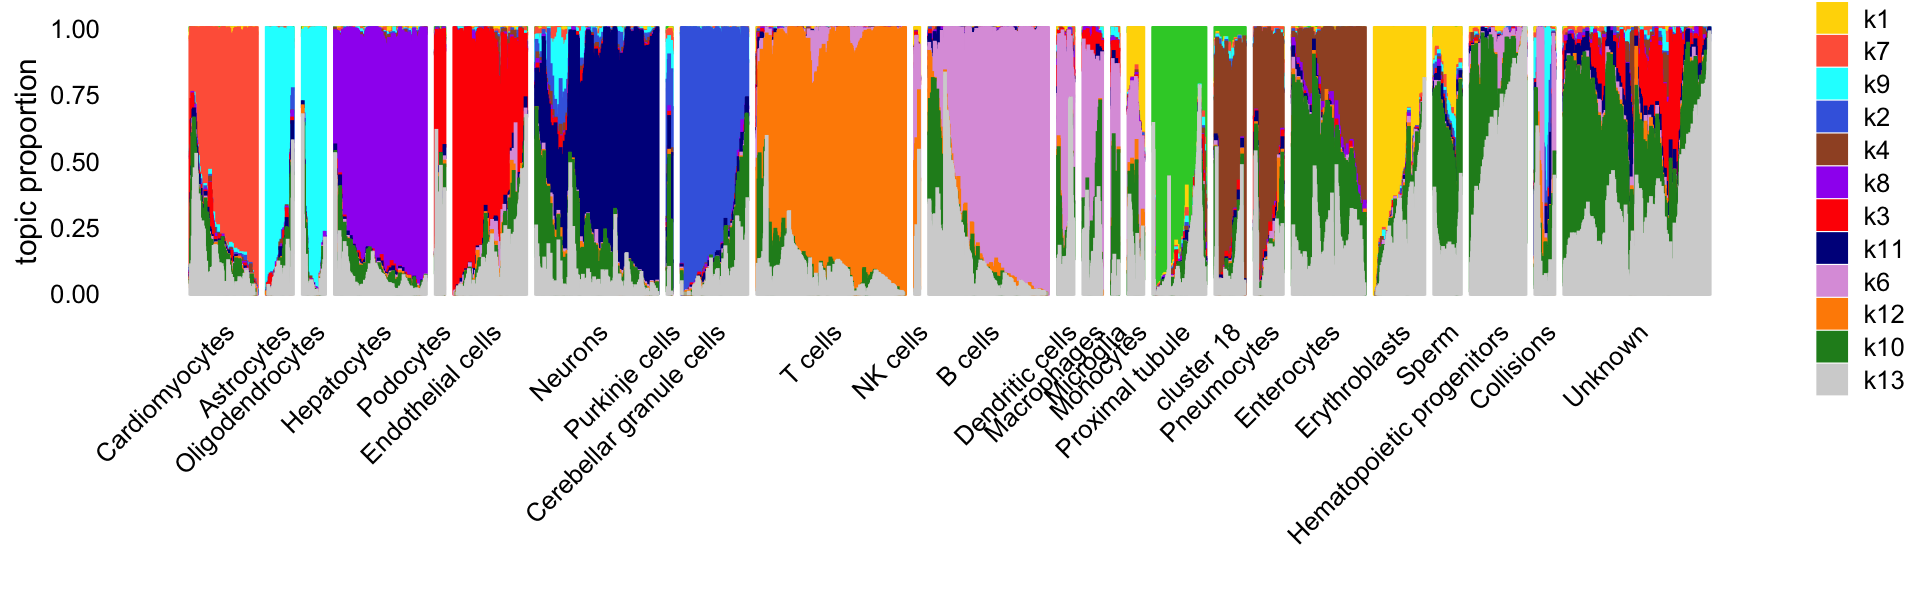
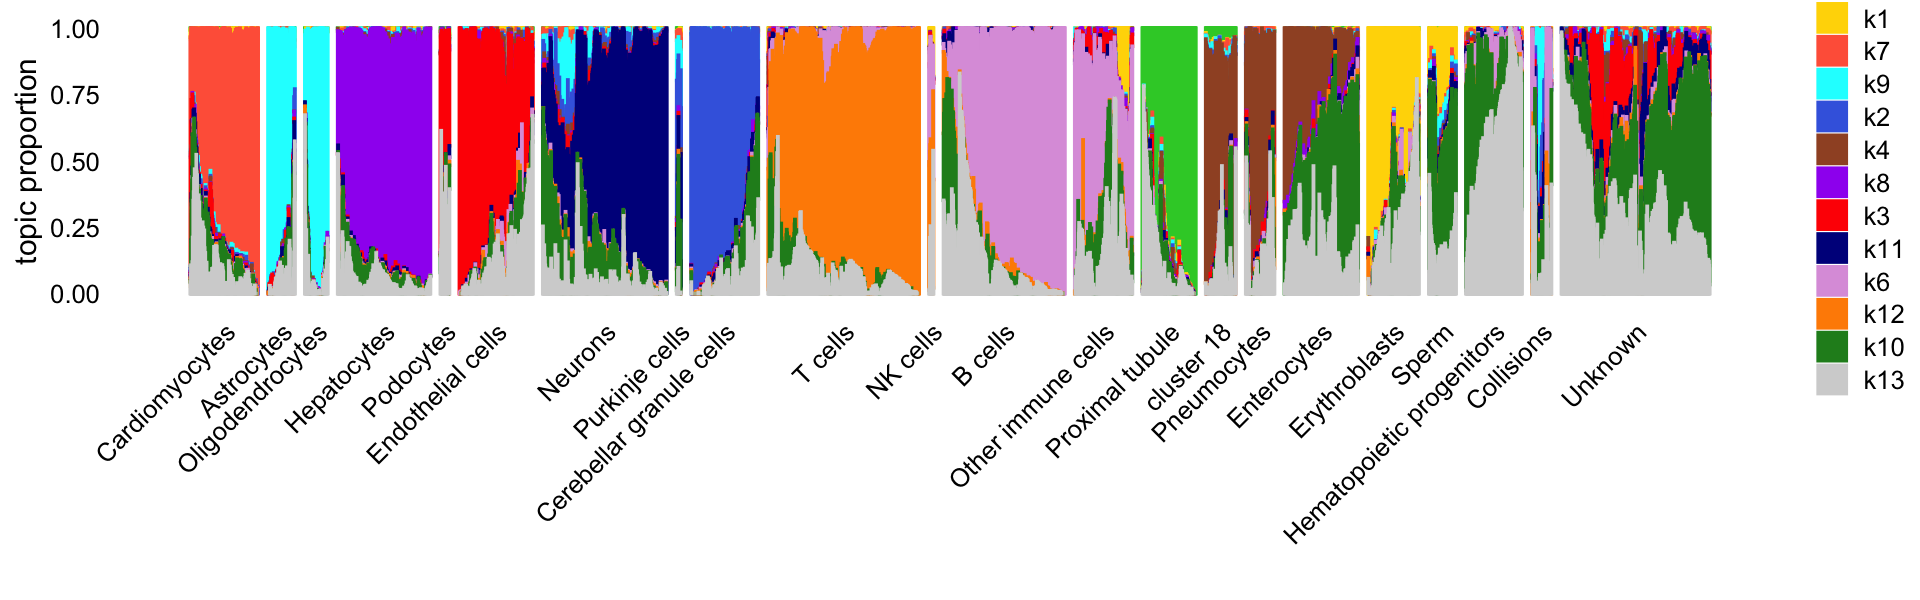
Revised the second structure plot.

diff --git a/docs/cusanovich2018_k13.html b/docs/cusanovich2018_k13.html
@@ -376,7 +376,7 @@ class="glyphicon glyphicon-ok text-success" aria-hidden="true"></span>
 <div class="tab-content">
 <div id="summary" class="tab-pane fade in active">
 <p>
-<strong>Last updated:</strong> 2022-08-01
+<strong>Last updated:</strong> 2022-08-02
 </p>
 <p>
 <strong>Checks:</strong> <span
@@ -507,15 +507,15 @@ project makes it easier to run your code on other machines.</p>
 <div class="panel panel-default">
 <div class="panel-heading">
 <p class="panel-title">
-<a data-toggle="collapse" data-parent="#workflowr-checks" href="#strongRepositoryversionstrongahrefhttpsgithubcomstephenslabscATACseqtopicstree9e501cbe5be854f22119cb57b9d09ba390e0a94etargetblank9e501cba">
+<a data-toggle="collapse" data-parent="#workflowr-checks" href="#strongRepositoryversionstrongahrefhttpsgithubcomstephenslabscATACseqtopicstree0f830ba9e3d79c20e287327f1f0cf1a10297eec4targetblank0f830baa">
 <span class="glyphicon glyphicon-ok text-success"
 aria-hidden="true"></span> <strong>Repository version:</strong>
-<a href="https://github.com/stephenslab/scATACseq-topics/tree/9e501cbe5be854f22119cb57b9d09ba390e0a94e" target="_blank">9e501cb</a>
+<a href="https://github.com/stephenslab/scATACseq-topics/tree/0f830ba9e3d79c20e287327f1f0cf1a10297eec4" target="_blank">0f830ba</a>
 </a>
 </p>
 </div>
 <div
[2 lines of base64/hex data omitted]
 class="panel-collapse collapse">
 <div class="panel-body">
 <p>
@@ -525,7 +525,7 @@ reproducibility.
 </p>
 <p>
 The results in this page were generated with repository version
-<a href="https://github.com/stephenslab/scATACseq-topics/tree/9e501cbe5be854f22119cb57b9d09ba390e0a94e" target="_blank">9e501cb</a>.
+<a href="https://github.com/stephenslab/scATACseq-topics/tree/0f830ba9e3d79c20e287327f1f0cf1a10297eec4" target="_blank">0f830ba</a>.
 See the <em>Past versions</em> tab to see a history of the changes made
 to the R Markdown and HTML files.
 </p>
@@ -554,9 +554,6 @@ Untracked files:
     Untracked:  output/Buenrostro_2018/binarized/filtered_peaks/Buenrostro_2018_binarized_filtered.RData
     Untracked:  plots/
     Untracked:  scripts/fit-buenrostro-2018-k=8.rds
-
-Unstaged changes:
-    Modified:   analysis/temp.R
 
 </code></pre>
 <p>
@@ -602,6 +599,41 @@ Message
 </tr>
 </thead>
 <tbody>
+<tr>
+<td>
+Rmd
+</td>
+<td>
+<a href="https://github.com/stephenslab/scATACseq-topics/blob/0f830ba9e3d79c20e287327f1f0cf1a10297eec4/analysis/cusanovich2018_k13.Rmd" target="_blank">0f830ba</a>
+</td>
+<td>
+Peter Carbonetto
+</td>
+<td>
+2022-08-02
+</td>
+<td>
+workflowr::wflow_publish("analysis/cusanovich2018_k13.Rmd", verbose =
+TRUE)
+</td>
+</tr>
+<tr>
+<td>
+html
+</td>
+<td>
+<a href="https://rawcdn.githack.com/stephenslab/scATACseq-topics/9eff66becb3f3a3eb6694ad26b8309d48ae7f6b9/docs/cusanovich2018_k13.html" target="_blank">9eff66b</a>
+</td>
+<td>
+Peter Carbonetto
+</td>
+<td>
+2022-08-01
+</td>
+<td>
+Added a second structure plot to the cusanovich2018_k13 analysis.
+</td>
+</tr>
 <tr>
 <td>
 Rmd
@@ -888,10 +920,7 @@ intenstine) share topics.</p>
     &quot;T cells&quot;,
     &quot;NK cells&quot;,
     &quot;B cells&quot;,
-    &quot;Dendritic cells&quot;,
-    &quot;Macrophages&quot;,
-    &quot;Microglia&quot;,
-    &quot;Monocytes&quot;,
+    &quot;Other immune cells&quot;,
     &quot;Proximal tubule&quot;,
     &quot;cluster 18&quot;,
     &quot;Pneumocytes&quot;,
@@ -921,6 +950,10 @@ x[x == &quot;Loop of henle&quot;] &lt;- &quot;cluster 18&quot;
 x[x == &quot;Distal convoluted tubule&quot;] &lt;- &quot;cluster 18&quot;
 x[x == &quot;Collecting duct&quot;] &lt;- &quot;cluster 18&quot;
 x[x == &quot;DCT/CD&quot;] &lt;- &quot;cluster 18&quot;
+x[x == &quot;Monocytes&quot;] &lt;- &quot;Other immune cells&quot;
+x[x == &quot;Dendritic cells&quot;] &lt;- &quot;Other immune cells&quot;
+x[x == &quot;Macrophages&quot;] &lt;- &quot;Other immune cells&quot;
+x[x == &quot;Microglia&quot;] &lt;- &quot;Other immune cells&quot;
 samples &lt;- transform(samples,
                      cell_label = factor(x,cell_types))
 set.seed(1)
@@ -928,6 +961,43 @@ p2 &lt;- structure_plot(fit,grouping = samples$cell_label,gap = 30,n = 4000,
                     perplexity = 30,colors = topic_colors,verbose = FALSE)
 print(p2)</code></pre>
 <p><img src="figure/cusanovich2018_k13.Rmd/structure-plot-2-1.png" width="960" style="display: block; margin: auto;" /></p>
+<p>
+<button type="button" class="btn btn-default btn-xs btn-workflowr btn-workflowr-fig" data-toggle="collapse" data-target="#fig-structure-plot-2-1">
+Past versions of structure-plot-2-1.png
+</button>
+</p>
+<div id="fig-structure-plot-2-1" class="collapse">
+<div class="table-responsive">
+<table class="table table-condensed table-hover">
+<thead>
+<tr>
+<th>
+Version
+</th>
+<th>
+Author
+</th>
+<th>
+Date
+</th>
+</tr>
+</thead>
+<tbody>
+<tr>
+<td>
+<a href="https://github.com/stephenslab/scATACseq-topics/blob/9eff66becb3f3a3eb6694ad26b8309d48ae7f6b9/docs/figure/cusanovich2018_k13.Rmd/structure-plot-2-1.png" target="_blank">9eff66b</a>
+</td>
+<td>
+Peter Carbonetto
+</td>
+<td>
+2022-08-01
+</td>
+</tr>
+</tbody>
+</table>
+</div>
+</div>
 <p><em>Add text here.</em></p>
 <br>
 <p>
